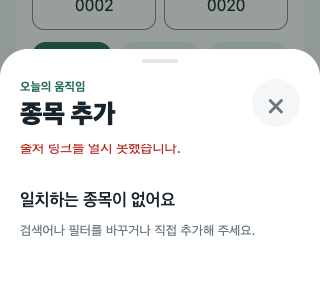
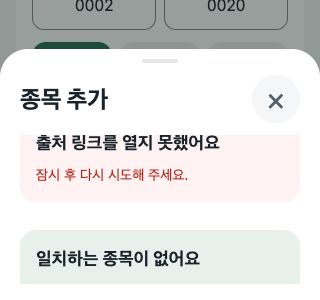
feat: apply DS-EX02 exercise picker design

diff --git a/src/features/exercises/ExercisePicker.tsx b/src/features/exercises/ExercisePicker.tsx
@@ -1,102 +1,163 @@
-import { useMemo, useRef, useState } from 'react';
-import { FlatList, Image, KeyboardAvoidingView, Linking, Modal, Platform, Pressable, ScrollView, StyleSheet, Text, TextInput, View } from 'react-native';
-import { useSafeAreaInsets } from 'react-native-safe-area-context';
-import type { BodyPart, Equipment } from '../../api/client';
-import { Button } from '../../components/Button';
-import { colors } from '../../theme/tokens';
-import { bodyParts, equipmentLabels, searchExercises, type CatalogExercise } from './catalog';
-import { exerciseImages } from './images';
+import {useCallback, useEffect, useMemo, useRef, useState} from 'react';
+import {Dimensions, FlatList, KeyboardAvoidingView, Linking, Modal, Platform, Pressable, ScrollView, StyleSheet, Text, TextInput, View, useWindowDimensions} from 'react-native';
+import {useSafeAreaInsets} from 'react-native-safe-area-context';
+import type {BodyPart, Equipment} from '../../api/client';
+import {Button} from '../../components/Button';
+import {colors, radius, size, spacing, typography} from '../../theme/tokens';
+import {bodyParts, equipmentLabels, searchExercises, type CatalogExercise} from './catalog';
+import {ExerciseMedia} from './ExerciseMedia';
+import {exerciseRowAccessibility, stackedExerciseItem} from './exercisePickerView';
+import {hasExerciseImage} from './images';
 
-type Props = { selectedIds: string[]; onClose(): void; onSelect(exercise: Pick<CatalogExercise, 'name'> & { id?: string }): void };
-export function ExercisePicker({ selectedIds, onClose, onSelect }: Props) {
+type Props = {selectedIds: string[]; onClose(): void; onSelect(exercise: Pick<CatalogExercise, 'name'> & {id?: string}): void};
+
+export function ExercisePicker({selectedIds, onClose, onSelect}: Props) {
   const insets = useSafeAreaInsets();
   const [query, setQuery] = useState('');
   const [bodyPart, setBodyPart] = useState<BodyPart>();
   const [equipment, setEquipment] = useState<Equipment>();
   const [showEquipment, setShowEquipment] = useState(false);
+  const [searchFocused, setSearchFocused] = useState(false);
   const [custom, setCustom] = useState(false);
   const [customName, setCustomName] = useState('');
-  const [error, setError] = useState('');
+  const [error, setError] = useState<{title: string; body: string} | null>(null);
   const listRef = useRef<FlatList<CatalogExercise>>(null);
+  const searchRef = useRef<TextInput>(null);
+  const searchWasActive = useRef(false);
+  const blurTimer = useRef<ReturnType<typeof setTimeout> | null>(null);
   const errorOffset = useRef<number | null>(null);
   const revealPending = useRef(false);
-  // 실패했을 때만 오류 위치로 이동하고, 검색하거나 필터를 바꿀 때는 스크롤을 유지해요.
-  function revealError() {
-    if (!revealPending.current || errorOffset.current === null) return;
-    listRef.current?.scrollToOffset({ offset: errorOffset.current, animated: true });
-    revealPending.current = false;
-  }
-  function reportError(message: string) {
-    revealPending.current = true;
-    setError(message);
-    revealError();
-  }
+  const choosing = useRef(false);
   const results = useMemo(() => searchExercises(query, bodyPart, equipment), [bodyPart, equipment, query]);
   const selectedIdSet = useMemo(() => new Set(selectedIds), [selectedIds]);
-  function choose(exercise: Pick<CatalogExercise, 'name'> & { id?: string }) {
-    try { onSelect(exercise); onClose(); } catch (e) { reportError(e instanceof Error ? e.message : '종목을 추가하지 못했습니다.'); }
+  const hasConditions = !!(query || bodyPart || equipment);
+  const conditionLabel = [bodyPart ? bodyParts[bodyPart] : '', equipment ? equipmentLabels[equipment] : ''].filter(Boolean).join(' · ');
+
+  useEffect(() => {
+    // 회전·창 크기 변경이 활성 검색 입력을 흐리게 해도 같은 노드와 커서를 다시 활성화한다.
+    const subscription = Dimensions.addEventListener('change', () => {
+      if (searchWasActive.current) requestAnimationFrame(() => searchRef.current?.focus());
+    });
+    return () => {subscription.remove();if (blurTimer.current) clearTimeout(blurTimer.current);};
+  }, []);
+
+  // 실패했을 때만 오류 위치로 이동하고 검색·필터 변경에는 현재 스크롤을 유지한다.
+  function revealError() {
+    if (!revealPending.current || errorOffset.current === null) return;
+    listRef.current?.scrollToOffset({offset: errorOffset.current, animated: true});
+    revealPending.current = false;
   }
+  function reportError(title: string, body: string) {
+    revealPending.current = true;
+    setError({title, body});
+    revealError();
+  }
+  function resetConditions() { setQuery(''); setBodyPart(undefined); setEquipment(undefined); }
+  function choose(exercise: Pick<CatalogExercise, 'name'> & {id?: string}) {
+    if (choosing.current) return;
+    choosing.current = true;
+    try { onSelect(exercise); onClose(); }
+    catch { choosing.current = false; reportError('종목을 추가하지 못했어요', '다시 선택해 주세요.'); }
+  }
+
   return <Modal transparent animationType="slide" onRequestClose={onClose}>
-    <KeyboardAvoidingView style={[s.backdrop, { paddingTop: Math.max(insets.top, 24) }]} behavior={Platform.OS === 'ios' ? 'padding' : undefined}>
+    <KeyboardAvoidingView style={[s.backdrop, {paddingTop: Math.max(insets.top, spacing.xxl)}]} behavior={Platform.OS === 'ios' ? 'padding' : undefined}>
       <Pressable style={s.dismissArea} accessibilityLabel="종목 선택 닫기" accessibilityRole="button" onPress={onClose} />
-      <View style={[s.sheet, { paddingBottom: Math.max(insets.bottom, 16) }]} accessibilityViewIsModal>
+      <View style={[s.sheet, {paddingBottom: Math.max(insets.bottom, spacing.lg)}]} accessibilityViewIsModal>
         <View style={s.handle} />
-        <View style={s.header}><View><Text style={s.eyebrow}>오늘의 움직임</Text><Text style={s.title}>종목 추가</Text></View>
+        <View style={s.header}><Text style={s.title}>종목 추가</Text>
           <Pressable style={s.close} accessibilityRole="button" accessibilityLabel="닫기" onPress={onClose}><Text style={s.closeText}>×</Text></Pressable></View>
-        {/* 낮은 창에서도 검색과 목록을 같은 영역에서 스크롤해 선택할 수 있어요. */}
-        <FlatList ref={listRef} data={results} extraData={selectedIds} keyExtractor={item => item.id} keyboardShouldPersistTaps="handled" keyboardDismissMode="on-drag"
-          initialNumToRender={8} maxToRenderPerBatch={10} windowSize={7} style={s.scroll} contentContainerStyle={s.list}
+        {/* 저높이 창에서도 검색부터 직접 입력까지 하나의 세로 목록으로 탐색한다. */}
+        <FlatList ref={listRef} data={results} extraData={selectedIds.join('|')} keyExtractor={item => item.id}
+          keyboardShouldPersistTaps="handled" keyboardDismissMode="on-drag" initialNumToRender={8} maxToRenderPerBatch={10} windowSize={7}
+          style={s.scroll} contentContainerStyle={s.list}
           ListHeaderComponent={<View>
-            <TextInput style={s.search} accessibilityLabel="종목 이름 검색" placeholder="종목 이름 검색 (예: 스쿼트)" value={query} onChangeText={setQuery} maxLength={80} autoCorrect={false} returnKeyType="search" clearButtonMode="while-editing" />
+            <View style={[s.searchField, searchFocused && s.searchFocused]}>
+              <TextInput ref={searchRef} style={s.searchInput} accessibilityLabel="종목 이름 검색" placeholder="이름이나 별칭 검색" placeholderTextColor={colors.textSecondary}
+                value={query} onChangeText={setQuery} maxLength={80} autoCorrect={false} returnKeyType="search"
+                onFocus={() => {if (blurTimer.current) clearTimeout(blurTimer.current);searchWasActive.current = true;setSearchFocused(true);}}
+                onBlur={() => {setSearchFocused(false);blurTimer.current = setTimeout(() => {searchWasActive.current = false;}, 100);}} />
+              {!!query && <Pressable accessibilityRole="button" accessibilityLabel="검색어 지우기" style={s.clear} onPress={() => {setQuery('');searchRef.current?.focus();}}><Text style={s.clearText}>×</Text></Pressable>}
+            </View>
+            <Text style={s.filterLabel}>부위</Text>
             <ScrollView horizontal showsHorizontalScrollIndicator={false} contentContainerStyle={s.chips} style={s.filterRow} keyboardShouldPersistTaps="handled">
-              <Chip label={`${equipment ? equipmentLabels[equipment] : '운동 도구'} ${showEquipment ? '⌃' : '⌄'}`} selected={!!equipment || showEquipment} onPress={() => setShowEquipment(!showEquipment)} />
               <Chip label="전체" selected={!bodyPart} onPress={() => setBodyPart(undefined)} />
               {(Object.entries(bodyParts) as [BodyPart, string][]).map(([value, label]) => <Chip key={value} label={label} selected={bodyPart === value} onPress={() => setBodyPart(value)} />)}
             </ScrollView>
+            <Pressable accessibilityRole="button" accessibilityLabel={`장비 필터, ${equipment ? equipmentLabels[equipment] : '전체'}, ${showEquipment ? '접기' : '펼치기'}`} accessibilityState={{expanded: showEquipment}} style={s.equipmentButton} onPress={() => setShowEquipment(value => !value)}>
+              <Text style={s.equipmentButtonText}>장비: {equipment ? equipmentLabels[equipment] : '전체'}</Text><Text style={s.equipmentButtonText}>{showEquipment ? '⌃' : '⌄'}</Text>
+            </Pressable>
             {showEquipment && <ScrollView horizontal showsHorizontalScrollIndicator={false} contentContainerStyle={s.chips} style={s.filterRow} keyboardShouldPersistTaps="handled">
-              <Chip label="도구 전체" selected={!equipment} onPress={() => setEquipment(undefined)} />
+              <Chip label="전체" selected={!equipment} onPress={() => setEquipment(undefined)} />
               {(Object.entries(equipmentLabels) as [Equipment, string][]).map(([value, label]) => <Chip key={value} label={label} selected={equipment === value} onPress={() => setEquipment(value)} />)}
             </ScrollView>}
-            <View style={s.resultHeader}><Text accessibilityLiveRegion="polite" style={s.muted}>{results.length}개 종목{bodyPart ? ` · ${bodyParts[bodyPart]}` : ''}{equipment ? ` · ${equipmentLabels[equipment]}` : ''}</Text>
-              {!!(query || bodyPart || equipment) && <Pressable accessibilityRole="button" style={s.reset} onPress={() => { setQuery(''); setBodyPart(undefined); setEquipment(undefined); }}><Text style={s.link}>검색 초기화</Text></Pressable>}</View>
-            {!!error && <Text accessibilityRole="alert" style={s.error} onLayout={event => { errorOffset.current = event.nativeEvent.layout.y; revealError(); }}>{error}</Text>}
+            <View style={s.resultHeader}><View style={s.resultCopy}><Text accessibilityLiveRegion="polite" style={s.resultCount}>검색 결과 {results.length}개</Text>
+              {!!conditionLabel && <Text style={s.muted}>{conditionLabel}</Text>}</View>
+              {hasConditions && <Pressable accessibilityRole="button" style={s.reset} onPress={resetConditions}><Text style={s.link}>조건 초기화</Text></Pressable>}
+            </View>
+            {error && <View accessibilityRole="alert" style={s.errorNotice} onLayout={event => {errorOffset.current = event.nativeEvent.layout.y;revealError();}}>
+              <Text style={s.noticeTitle}>{error.title}</Text><Text style={s.errorText}>{error.body}</Text>
+            </View>}
           </View>}
-          renderItem={({ item }) => {
-            const selected = selectedIdSet.has(item.id);
-            return <Pressable accessibilityRole="button" accessibilityLabel={`${item.name}, ${bodyParts[item.bodyPart]}, ${equipmentLabels[item.equipment]}${selected ? ', 추가됨' : ', 추가'}`} accessibilityState={{ disabled: selected }} disabled={selected} onPress={() => choose(item)} style={({ pressed }) => [s.exercise, { opacity: pressed ? 0.65 : 1 }]}>
-              <Image source={exerciseImages[item.id]} style={s.picture} resizeMode="contain" accessibilityLabel={`${item.name} 동작 사진`} />
-              <View style={s.exerciseInfo}><Text style={s.exerciseName}>{item.name}</Text><Text style={s.muted}>{bodyParts[item.bodyPart]} · {equipmentLabels[item.equipment]}</Text></View>
-              <Text style={[s.add, selected && s.selected]}>{selected ? '추가됨' : '+'}</Text>
-            </Pressable>;
-          }}
-          ListEmptyComponent={<View style={s.empty}><Text style={s.exerciseName}>일치하는 종목이 없어요</Text><Text style={s.muted}>검색어나 필터를 바꾸거나 직접 추가해 주세요.</Text></View>}
+          renderItem={({item}) => <ExerciseListItem item={item} selected={selectedIdSet.has(item.id)} onChoose={choose} />}
+          ListEmptyComponent={<View style={s.empty}><Text style={s.noticeTitle}>일치하는 종목이 없어요</Text><Text style={s.muted}>검색어나 조건을 바꾸거나 직접 입력해 주세요.</Text>
+            {hasConditions && <Button title="조건 초기화" secondary onPress={resetConditions} />}</View>}
           ListFooterComponent={<View style={s.footer}>
-            {custom ? <View style={s.custom}><Text style={s.exerciseName}>내 종목 직접 입력</Text><TextInput style={s.customInput} accessibilityLabel="직접 입력할 운동 이름" placeholder="운동 이름" maxLength={80} value={customName} onChangeText={setCustomName} /><Button title="이 이름으로 추가" disabled={!customName.trim()} onPress={() => choose({ name: customName })} /><Button title="직접 입력 취소" secondary onPress={() => setCustom(false)} /></View> : <Button title="목록에 없는 종목 직접 입력" secondary onPress={() => { setCustomName(query); setCustom(true); }} />}
+            {custom ? <View style={s.custom}><Text style={s.noticeTitle}>내 종목 직접 입력</Text><TextInput style={s.customInput} accessibilityLabel="직접 입력할 운동 이름" placeholder="운동 이름" maxLength={80} value={customName} onChangeText={setCustomName} /><Button title="이 이름으로 추가" disabled={!customName.trim()} onPress={() => choose({name: customName})} /><Button title="직접 입력 취소" secondary onPress={() => setCustom(false)} /></View>
+              : <Button title="목록에 없는 종목 직접 입력" secondary onPress={() => {setCustomName(query);setCustom(true);}} />}
             <Text style={s.credit}>동작 사진 · Free Exercise DB · Unlicense</Text>
-            <Pressable accessibilityRole="link" style={s.sourceLink} onPress={() => { void Linking.openURL('https://github.com/yuhonas/free-exercise-db').catch(() => reportError('출처 링크를 열지 못했습니다.')); }}><Text style={s.link}>사진 출처 보기</Text></Pressable>
+            <Pressable accessibilityRole="link" style={s.sourceLink} onPress={() => {void Linking.openURL('https://github.com/yuhonas/free-exercise-db').catch(() => reportError('출처 링크를 열지 못했어요', '잠시 후 다시 시도해 주세요.'));}}><Text style={s.link}>사진 출처 보기</Text></Pressable>
           </View>} />
       </View>
     </KeyboardAvoidingView>
   </Modal>;
 }
-function Chip({ label, selected, onPress }: { label: string; selected: boolean; onPress(): void }) {
-  return <Pressable accessibilityRole="button" accessibilityState={{ selected }} onPress={onPress} style={[s.chip, selected && s.chipSelected]}><Text style={[s.chipLabel, selected && s.chipLabelSelected]}>{label}</Text></Pressable>;
+
+function ExerciseListItem({item, selected, onChoose}: {item: CatalogExercise; selected: boolean; onChoose(exercise: CatalogExercise): void}) {
+  const window = useWindowDimensions();
+  const stacked = stackedExerciseItem(window.width - 40, window.fontScale);
+  const [mediaMissing, setMediaMissing] = useState(() => !hasExerciseImage(item.id));
+  const updateMissing = useCallback((missing: boolean) => setMediaMissing(missing), []);
+  const label = exerciseRowAccessibility(item, selected, mediaMissing);
+  return <Pressable accessibilityRole="button" accessibilityLabel={label} accessibilityState={{disabled: selected}} disabled={selected} onPress={() => onChoose(item)}
+    style={({pressed}) => [s.exercise, stacked && s.exerciseStacked, pressed && !selected && s.exercisePressed]}>
+    <ExerciseMedia exercise={item} onMissingChange={updateMissing} />
+    <View style={s.exerciseBody}><View style={s.exerciseInfo}><Text style={s.exerciseName}>{item.name}</Text><Text style={s.muted}>{bodyParts[item.bodyPart]} · {equipmentLabels[item.equipment]}</Text>
+      {mediaMissing && <Text style={s.muted}>동작 사진 없음</Text>}{selected && <Text style={s.selectedText}>추가됨</Text>}</View>
+      <View style={s.action} accessible={false}><Text style={s.actionText}>{selected ? '✓' : '+'}</Text></View></View>
+  </Pressable>;
 }
+
+function Chip({label, selected, onPress}: {label: string; selected: boolean; onPress(): void}) {
+  return <Pressable accessibilityRole="button" accessibilityState={{selected}} onPress={onPress} style={[s.chip, selected && s.chipSelected]}>
+    <Text style={[s.chipLabel, selected && s.chipLabelSelected]}>{selected ? `✓ ${label}` : label}</Text>
+  </Pressable>;
+}
+
 const s = StyleSheet.create({
-  backdrop: { flex: 1, backgroundColor: '#13221C70', justifyContent: 'flex-end' }, dismissArea: { flex: 1, minHeight: 12 },
-  sheet: { height: '91%', width: '100%', maxWidth: 640, alignSelf: 'center', backgroundColor: colors.surface, borderTopLeftRadius: 28, borderTopRightRadius: 28, overflow: 'hidden' },
-  handle: { width: 36, height: 4, borderRadius: 2, backgroundColor: colors.border, alignSelf: 'center', marginTop: 10 },
-  header: { paddingHorizontal: 20, paddingVertical: 16, flexDirection: 'row', justifyContent: 'space-between', alignItems: 'center' },
-  eyebrow: { color: colors.primary, fontSize: 12, fontWeight: '700', marginBottom: 4 }, title: { fontSize: 26, fontWeight: '800', color: colors.text },
-  close: { width: 48, height: 48, alignItems: 'center', justifyContent: 'center', borderRadius: 24, backgroundColor: colors.background }, closeText: { fontSize: 30, color: colors.muted },
-  search: { marginHorizontal: 20, marginBottom: 16, minHeight: 54, borderRadius: 16, backgroundColor: colors.background, paddingHorizontal: 16, fontSize: 16, color: colors.text },
-  filterRow: { flexGrow: 0, flexShrink: 0, marginBottom: 8 }, chips: { gap: 8, paddingHorizontal: 20 },
-  chip: { minHeight: 44, justifyContent: 'center', paddingHorizontal: 18, borderRadius: 24, backgroundColor: colors.background }, chipSelected: { backgroundColor: colors.primary },
-  chipLabel: { fontSize: 15, fontWeight: '600', color: colors.muted }, chipLabelSelected: { color: '#fff' },
-  resultHeader: { paddingHorizontal: 20, minHeight: 44, flexDirection: 'row', alignItems: 'center', justifyContent: 'space-between' }, reset: { minHeight: 44, justifyContent: 'center' },
-  scroll: { flex: 1, minHeight: 0 }, list: { paddingBottom: 12 }, exercise: { marginHorizontal: 20, flexDirection: 'row', alignItems: 'center', paddingVertical: 14, gap: 14, borderBottomWidth: 1, borderColor: '#F0F3F1' },
-  picture: { width: 88, height: 88, borderRadius: 16, backgroundColor: colors.background }, exerciseInfo: { flex: 1, gap: 6 }, exerciseName: { color: colors.text, fontSize: 17, lineHeight: 24, fontWeight: '600' },
-  muted: { color: colors.muted, fontSize: 13, lineHeight: 20 }, add: { color: colors.primary, fontSize: 26, minWidth: 28, textAlign: 'center' }, selected: { fontSize: 12, color: colors.muted },
-  empty: { marginHorizontal: 20, paddingVertical: 32, gap: 8 }, footer: { marginHorizontal: 20, paddingTop: 24, gap: 10 }, custom: { gap: 12 }, customInput: { borderWidth: 1, borderColor: colors.border, padding: 14, borderRadius: 12, fontSize: 16, minHeight: 48 },
-  credit: { color: colors.muted, textAlign: 'center', fontSize: 11, marginTop: 12 }, sourceLink: { minHeight: 44, alignItems: 'center', justifyContent: 'center' }, link: { color: colors.primary, fontSize: 13 }, error: { color: '#B42318', paddingHorizontal: 20 },
+  backdrop: {flex: 1, backgroundColor: '#13221C70', justifyContent: 'flex-end'}, dismissArea: {flex: 1, minHeight: 12},
+  sheet: {height: '91%', width: '100%', maxWidth: size.contentMax, alignSelf: 'center', backgroundColor: colors.surface, borderTopLeftRadius: 28, borderTopRightRadius: 28, overflow: 'hidden'},
+  handle: {width: 36, height: 4, borderRadius: 2, backgroundColor: colors.border, alignSelf: 'center', marginTop: 10},
+  header: {paddingHorizontal: spacing.xl, paddingVertical: spacing.md, flexDirection: 'row', justifyContent: 'space-between', alignItems: 'center'},
+  title: {...typography.title, color: colors.text}, close: {width: size.controlMin, height: size.controlMin, alignItems: 'center', justifyContent: 'center', borderRadius: 24, backgroundColor: colors.background},
+  closeText: {fontSize: 30, color: colors.textSecondary}, scroll: {flex: 1, minHeight: 0}, list: {paddingBottom: spacing.md},
+  searchField: {marginHorizontal: spacing.xl, marginBottom: spacing.lg, minHeight: size.controlMin, borderRadius: radius.input, borderWidth: size.borderWidth, borderColor: colors.inputBorder, backgroundColor: colors.surface, flexDirection: 'row', alignItems: 'center'},
+  searchFocused: {borderColor: colors.focus, borderWidth: size.focusWidth}, searchInput: {...typography.body, color: colors.text, flex: 1, minWidth: 0, minHeight: size.controlMin, paddingHorizontal: spacing.lg},
+  clear: {width: size.controlMin, height: size.controlMin, alignItems: 'center', justifyContent: 'center'}, clearText: {fontSize: 24, color: colors.textSecondary},
+  filterLabel: {...typography.caption, color: colors.text, fontWeight: '700', marginHorizontal: spacing.xl, marginBottom: spacing.sm},
+  filterRow: {flexGrow: 0, flexShrink: 0, marginBottom: spacing.md}, chips: {gap: spacing.sm, paddingHorizontal: spacing.xl},
+  chip: {minHeight: size.controlMin, justifyContent: 'center', paddingHorizontal: spacing.lg, paddingVertical: spacing.md, borderRadius: radius.button, backgroundColor: colors.background},
+  chipSelected: {backgroundColor: colors.primary}, chipLabel: {...typography.body, fontWeight: '600', color: colors.textSecondary}, chipLabelSelected: {color: colors.onPrimary},
+  equipmentButton: {marginHorizontal: spacing.xl, marginBottom: spacing.md, minHeight: size.controlMin, paddingHorizontal: spacing.lg, borderRadius: radius.button, backgroundColor: colors.primarySoft, flexDirection: 'row', alignItems: 'center', justifyContent: 'space-between'},
+  equipmentButtonText: {...typography.button, color: colors.primary},
+  resultHeader: {paddingHorizontal: spacing.xl, minHeight: size.controlMin, flexDirection: 'row', flexWrap: 'wrap', gap: spacing.sm, alignItems: 'center', justifyContent: 'space-between'},
+  resultCopy: {flex: 1, minWidth: 180}, resultCount: {...typography.caption, color: colors.text, fontWeight: '700'}, reset: {minHeight: size.controlMin, justifyContent: 'center'}, link: {...typography.caption, color: colors.primary, fontWeight: '700'},
+  exercise: {marginHorizontal: spacing.xl, minHeight: 96, flexDirection: 'row', alignItems: 'center', paddingVertical: spacing.lg, gap: spacing.md, borderBottomWidth: size.borderWidth, borderColor: colors.border},
+  exerciseStacked: {alignItems: 'flex-start', flexDirection: 'column'}, exercisePressed: {backgroundColor: colors.primarySoft}, exerciseBody: {flex: 1, minWidth: 0, width: '100%', flexDirection: 'row', alignItems: 'center', gap: spacing.sm},
+  exerciseInfo: {flex: 1, minWidth: 0, gap: spacing.xs}, exerciseName: {...typography.button, color: colors.text}, muted: {...typography.caption, color: colors.textSecondary},
+  selectedText: {...typography.caption, color: colors.primary, fontWeight: '700'}, action: {width: size.controlMin, minHeight: size.controlMin, alignItems: 'center', justifyContent: 'center'}, actionText: {fontSize: 26, color: colors.primary, fontWeight: '700'},
+  empty: {margin: spacing.xl, padding: spacing.lg, gap: spacing.sm, borderRadius: radius.status, backgroundColor: colors.primarySoft}, noticeTitle: {...typography.heading, color: colors.text},
+  errorNotice: {marginHorizontal: spacing.xl, marginVertical: spacing.sm, padding: spacing.lg, gap: spacing.sm, borderRadius: radius.status, backgroundColor: colors.dangerSurface}, errorText: {...typography.caption, color: colors.danger},
+  footer: {marginHorizontal: spacing.xl, paddingTop: spacing.xxl, gap: spacing.sm}, custom: {gap: spacing.md}, customInput: {...typography.body, color: colors.text, borderWidth: size.borderWidth, borderColor: colors.inputBorder, padding: spacing.lg, borderRadius: radius.input, minHeight: size.controlMin},
+  credit: {color: colors.textSecondary, textAlign: 'center', fontSize: 11, marginTop: spacing.md}, sourceLink: {minHeight: size.controlMin, alignItems: 'center', justifyContent: 'center'},
 });

diff --git a/src/features/workout/WorkoutScreen.tsx b/src/features/workout/WorkoutScreen.tsx
@@ -1,11 +1,11 @@
 import { useEffect, useState } from 'react';
-import { AppState, Image, KeyboardAvoidingView, Platform, ScrollView, StyleSheet, Text, View, useWindowDimensions } from 'react-native';
+import { AppState, KeyboardAvoidingView, Platform, ScrollView, StyleSheet, Text, View, useWindowDimensions } from 'react-native';
 import { SafeAreaView, useSafeAreaInsets } from 'react-native-safe-area-context';
 import { Button } from '../../components/Button';
 import { colors, radius, spacing, typography } from '../../theme/tokens';
 import { ExercisePicker } from '../exercises/ExercisePicker';
 import { bodyParts, equipmentLabels, findCatalogExercise } from '../exercises/catalog';
-import { exerciseImages } from '../exercises/images';
+import { ExerciseMedia } from '../exercises/ExerciseMedia';
 import { addExercise, addSet, removeSet, finishWorkout, startWorkout, updateSet, pauseWorkout, resumeWorkout, elapsedWorkoutMs, formatWorkoutTime, IncompleteSetsError, type Workout } from './model';
 import { useWorkoutArchive } from './useWorkoutArchive';
 import { RestSetting, formatRest } from './RestSetting';
@@ -66,7 +66,7 @@ export function WorkoutScreen() {
           const catalog = findCatalogExercise(e.catalogId);
           return <View style={s.card} key={e.id}>
             <View style={s.exerciseHeader}>
-              {catalog && <Image source={exerciseImages[catalog.id]} style={s.picture} resizeMode="contain" accessibilityLabel={`${e.name} 동작 사진`} />}
+              <ExerciseMedia exercise={catalog} />
               <View style={s.exerciseInfo}><Text style={s.heading}>{e.name}</Text><Text style={s.muted}>{catalog ? `${bodyParts[catalog.bodyPart]} · ${equipmentLabels[catalog.equipment]}` : '직접 추가한 종목'}</Text></View>
             </View>
             <RestSetting name={e.name} {...restFor(e)} finished={finished} onSave={seconds => saveRest(e, seconds)} />
@@ -108,6 +108,6 @@ const s = StyleSheet.create({
   heading: { ...typography.heading, color: colors.text }, muted: { ...typography.caption, color: colors.textSecondary },
   summary: { flexDirection: 'row', flexWrap: 'wrap', gap: 8, alignItems: 'center', justifyContent: 'space-between' }, progress: { color: colors.primary, fontSize: 13, fontWeight: '600' },
   empty: { paddingVertical: 24, gap: 10 }, card: { backgroundColor: colors.surface, borderRadius: radius.card, padding: spacing.lg, gap: spacing.lg },
-  exerciseHeader: { flexDirection: 'row', alignItems: 'center', gap: 12, padding: 4, marginBottom: 4 }, exerciseInfo: { flex: 1, gap: 4 }, picture: { width: 64, height: 64, borderRadius: 12, backgroundColor: colors.background },
+  exerciseHeader: { flexDirection: 'row', alignItems: 'center', gap: 12, padding: 4, marginBottom: 4 }, exerciseInfo: { flex: 1, gap: 4 },
   hint: { fontSize: 12, lineHeight: 20, color: colors.muted, textAlign: 'center' }, error: { color: '#B42318', lineHeight: 24 },
 });

diff --git a/src/features/exercises/ExerciseMedia.tsx b/src/features/exercises/ExerciseMedia.tsx
@@ -1,0 +1,26 @@
+import {useState} from 'react';
+import {Image, StyleSheet, Text, View} from 'react-native';
+import {colors, radius, typography} from '../../theme/tokens';
+import {bodyParts, equipmentLabels, type CatalogExercise} from './catalog';
+import {exerciseImages} from './images';
+
+export function ExerciseMedia({exercise, onMissingChange}: {
+  exercise?: Pick<CatalogExercise, 'id' | 'bodyPart' | 'equipment'>;
+  onMissingChange?(missing: boolean): void;
+}) {
+  const source = exercise ? exerciseImages[exercise.id] : undefined;
+  const [failedId, setFailedId] = useState<string | null>(null);
+  const missing = !source || failedId === exercise?.id;
+  if (!missing) return <Image source={source} style={s.picture} resizeMode="contain" accessible={false} onError={() => { setFailedId(exercise?.id ?? null); onMissingChange?.(true); }} />;
+  return <View style={s.fallback} accessible={false}>
+    <Text style={s.fallbackStrong}>{exercise ? equipmentLabels[exercise.equipment] : '운동'}</Text>
+    <Text style={s.fallbackText}>{exercise ? bodyParts[exercise.bodyPart] : '직접 입력'}</Text>
+  </View>;
+}
+
+const s = StyleSheet.create({
+  picture: {width: 64, height: 64, borderRadius: radius.input, backgroundColor: colors.background},
+  fallback: {width: 64, minHeight: 64, borderRadius: radius.input, padding: 4, alignItems: 'center', justifyContent: 'center', backgroundColor: colors.primarySoft},
+  fallbackStrong: {...typography.caption, color: colors.primary, fontWeight: '700', textAlign: 'center'},
+  fallbackText: {...typography.caption, color: colors.text, textAlign: 'center'},
+});

diff --git a/tests/exercise-picker-view.test.ts b/tests/exercise-picker-view.test.ts
@@ -1,0 +1,17 @@
+import assert from 'node:assert/strict';
+import test from 'node:test';
+import {exerciseRowAccessibility, stackedExerciseItem} from '../src/features/exercises/exercisePickerView.ts';
+import type {CatalogExercise} from '../src/features/exercises/catalog.ts';
+
+const exercise: CatalogExercise = {id: 'test', name: '긴 운동 이름', bodyPart: 'SHOULDERS', equipment: 'DUMBBELL', recommendedRestSeconds: 90, aliases: []};
+
+test('내부폭300 미만이나 글자2배에서 미디어를 위로 쌓는다', () => {
+  assert.equal(stackedExerciseItem(299, 1), true);
+  assert.equal(stackedExerciseItem(300, 1.3), false);
+  assert.equal(stackedExerciseItem(400, 2), true);
+});
+
+test('운동 행은 분류·사진없음·추가 상태를 한 버튼 이름으로 전달한다', () => {
+  assert.equal(exerciseRowAccessibility(exercise, false, true), '긴 운동 이름, 어깨, 덤벨, 동작 사진 없음, 추가');
+  assert.equal(exerciseRowAccessibility(exercise, true, false), '긴 운동 이름, 어깨, 덤벨, 추가됨');
+});

diff --git a/src/features/exercises/exercisePickerView.ts b/src/features/exercises/exercisePickerView.ts
@@ -1,0 +1,8 @@
+import type {CatalogExercise} from './catalog.ts';
+import {bodyParts, equipmentLabels} from './catalog.ts';
+
+export const stackedExerciseItem = (availableWidth: number, fontScale: number) => availableWidth < 300 || fontScale >= 2;
+
+export function exerciseRowAccessibility(exercise: CatalogExercise, selected: boolean, mediaMissing: boolean) {
+  return `${exercise.name}, ${bodyParts[exercise.bodyPart]}, ${equipmentLabels[exercise.equipment]}${mediaMissing ? ', 동작 사진 없음' : ''}${selected ? ', 추가됨' : ', 추가'}`;
+}

diff --git a/src/features/exercises/images.ts b/src/features/exercises/images.ts
@@ -20,3 +20,4 @@ export const exerciseImages: Record<string, ImageSourcePropType> = {
   '00000000-0000-4000-8000-000000000017': require('../../../assets/exercises/17.jpg'),
   '00000000-0000-4000-8000-000000000018': require('../../../assets/exercises/18.jpg'),
 };
+export const hasExerciseImage = (id: string) => exerciseImages[id] !== undefined;

diff --git a/docs/exercise-expansion-v1.md b/docs/exercise-expansion-v1.md
@@ -7,6 +7,17 @@
 - 선택 ID는 `Set`으로 확인하고 FlatList batch/window 설정을 적용한다.
 - 1,000개 합성 목록에서 검색·필터·원본 순서 보존을 검사한다. 합성 목록은 테스트 전용이며 제품 운동이나 백엔드 ID가 아니다.
 
+## DS-EX02 선택기
+
+- 고정 헤더를 24/32 제목과 48×48 닫기로 줄이고 검색·필터·결과·목록·직접 입력은 한 FlatList에 둔다.
+- 이름/별칭 검색, 검색어 지우기, 부위 필터, 접는 장비 필터, 실제 결과 수와 조건 초기화를 제공한다.
+- 목록 사진을 64×64로 사용하며 사진이 없거나 실패하면 부위·장비 분류 타일을 표시한다. 기존 18개 사진은 그대로 유지한다.
+- 분류 타일은 운동 화면에서도 공유하고 직접 입력 종목은 `운동 / 직접 입력`으로 표시한다.
+- 내부폭 300 미만 또는 글자 2배에서 미디어와 이름 영역을 세로로 쌓는다.
+- 추가 오류는 기술 원문 대신 사용자 안내로 표시하며, 빠른 연속 탭으로 `onSelect`가 중복 실행되지 않게 막는다.
+
+브라우저에서 320×300, 844×260, 390×844로 검색·필터·64px 미디어·48px 지우기·저높이 선택·회전 중 입력 노드/커서·스크롤·직접 입력 초안·기존 운동 원문·공유 분류 타일을 확인했다. 네이티브 키보드, OS 글자 확대와 실제 이미지 로딩 실패는 실기기 검증으로 남긴다.
+
 ## 원본 수신 후 작업
 
 1. 백엔드가 확정한 100종 이상 ID·한국어명·부위·장비·별칭 원본을 그대로 적용한다.
